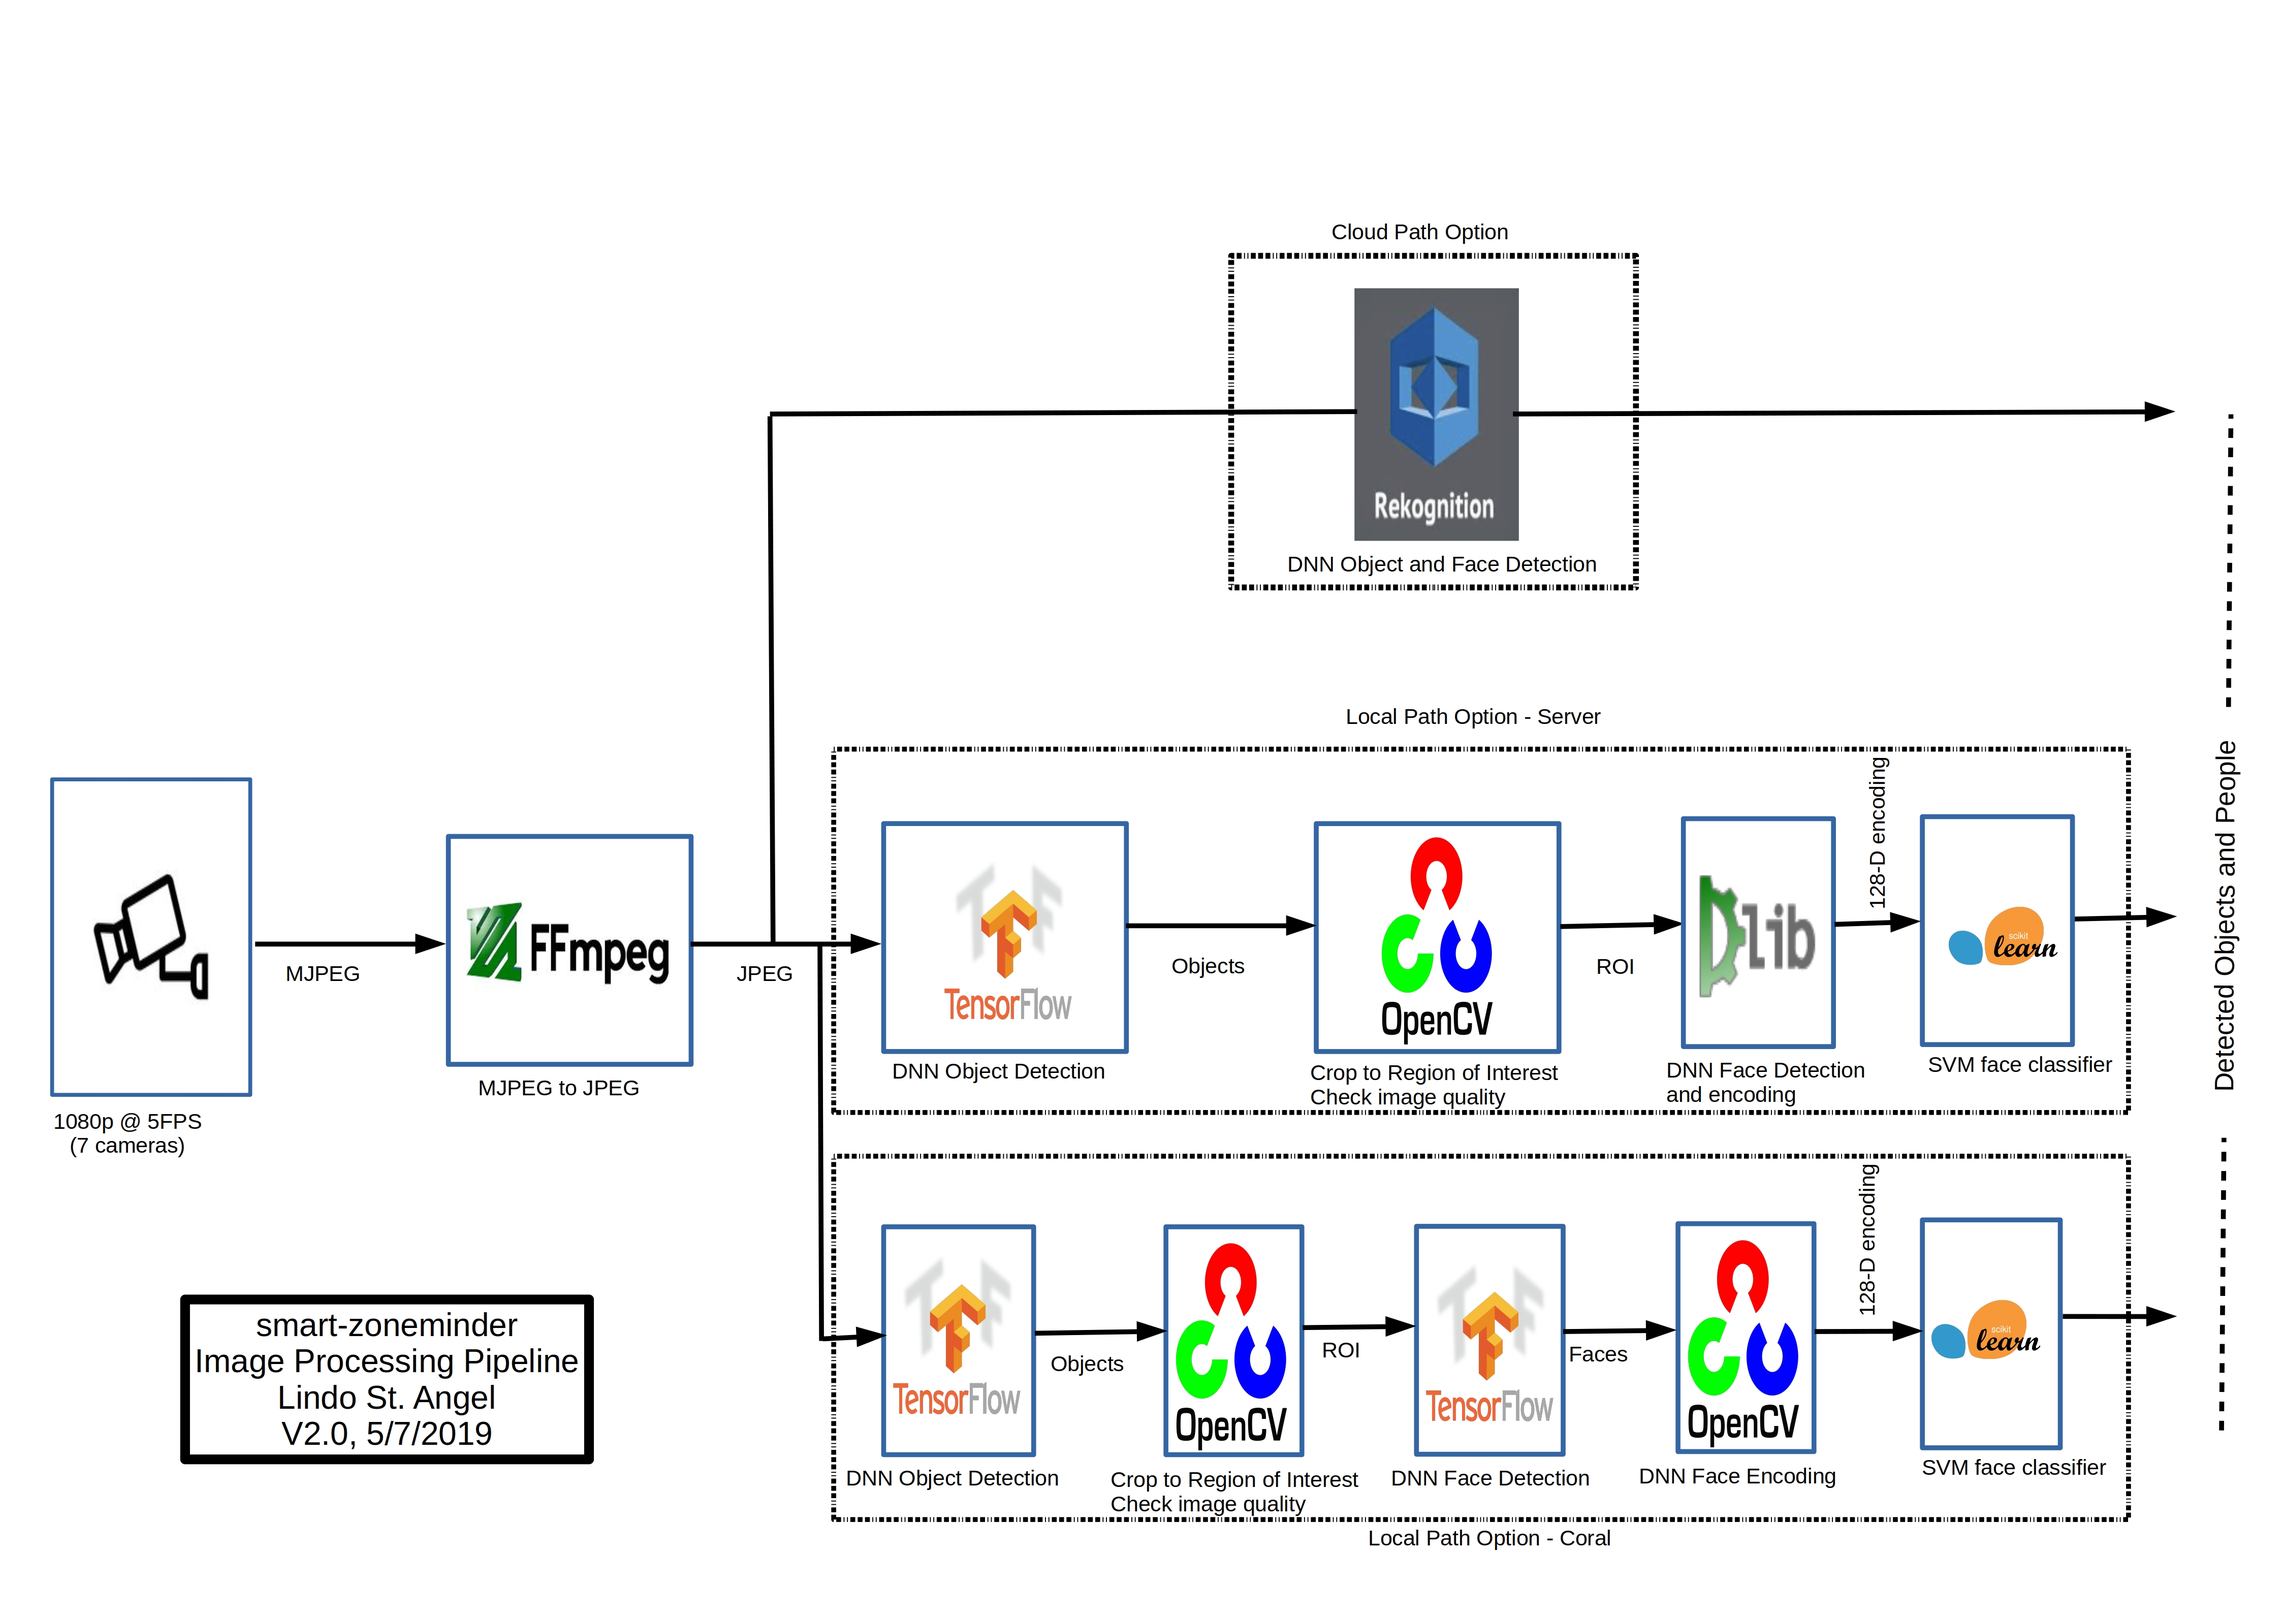
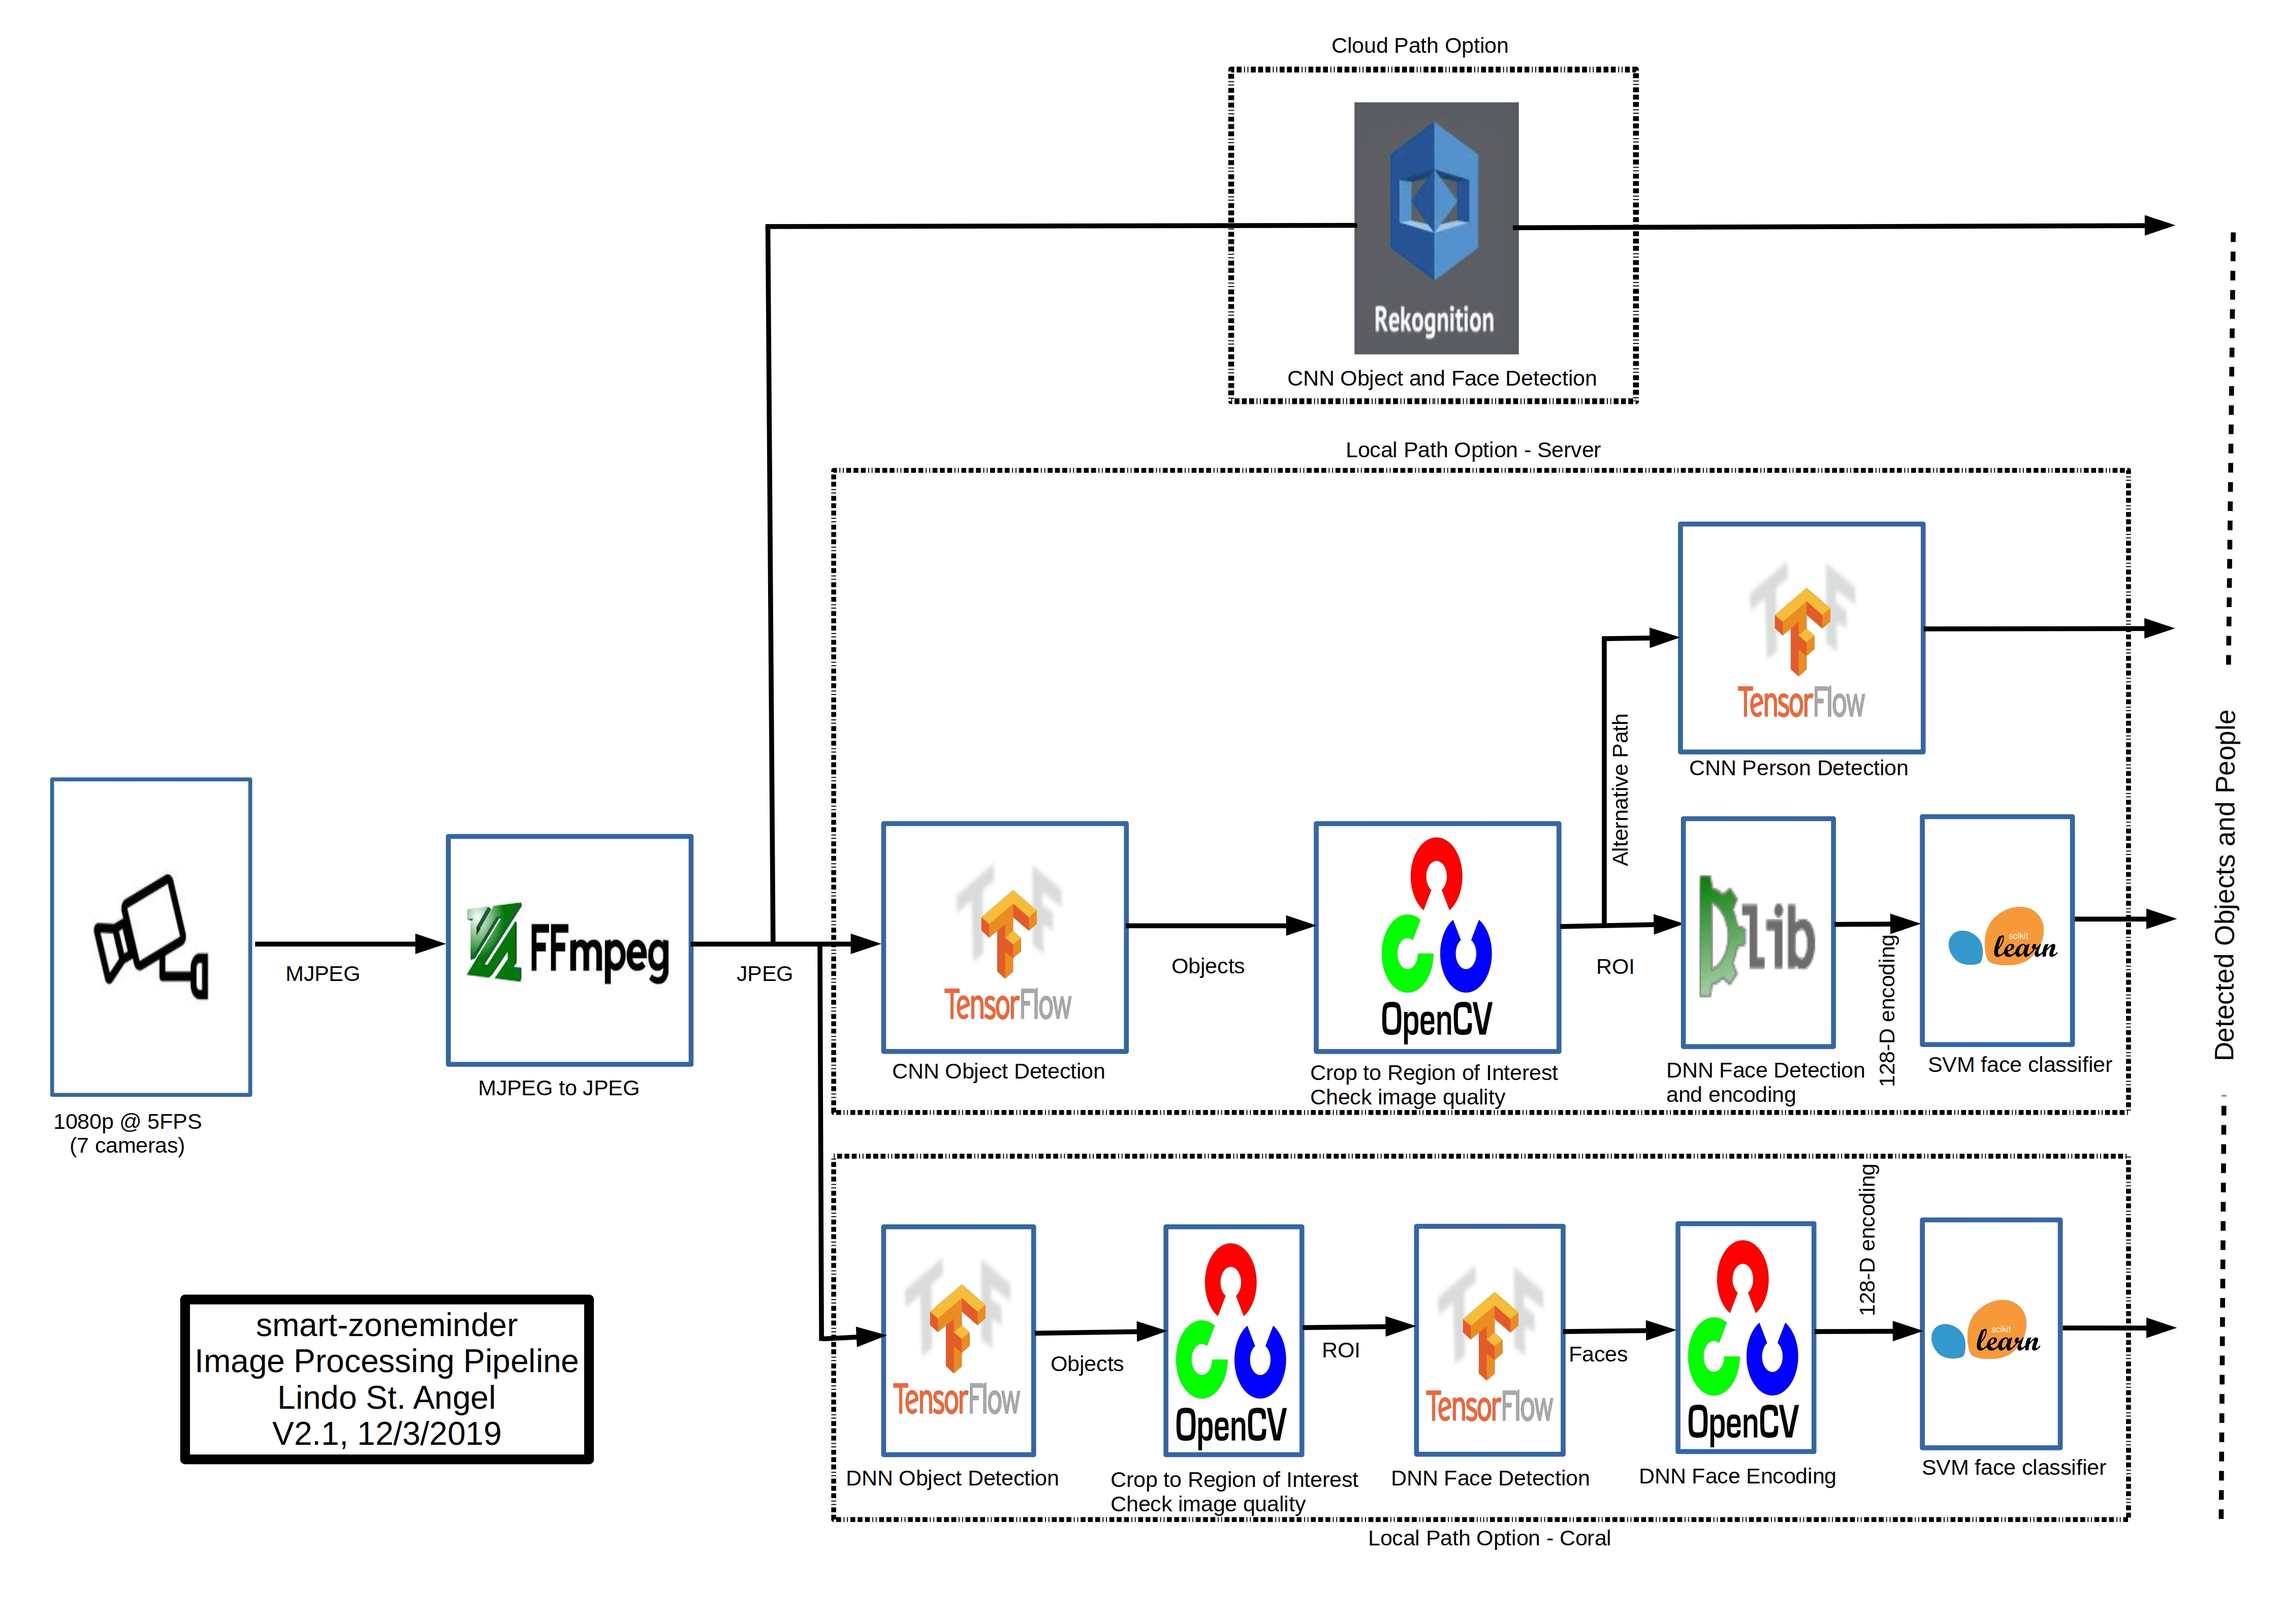
updated READMEs and figures

diff --git a/person-class/README.md b/person-class/README.md
@@ -8,21 +8,23 @@ Note that [face-det-rec](../face-det-rec) includes shallow learning methods (SVM
 # Installation
 1. Clone this git repo to your local machine running ZoneMinder and cd to it.
 
-2. Create a python virtual environment called 'od' and install all required packages using the requirements.txt file in this directory. If you have already created 'od' as part of installing [obj-detect](../obj-detect) you can skip this step. 
+2. If needed install the OpenCV libraries using this [guide](https://www.pyimagesearch.com/2018/06/18/face-recognition-with-opencv-python-and-deep-learning/).
 
-3. Create a folder called ```dataset``` with ```train```, ```test```, and ```valdation``` subfolders.
+3. Create a python virtual environment called 'od' and install all required packages using the requirements.txt file in this directory. If you have already created 'od' as part of installing [obj-detect](../obj-detect) you can skip this step. 
 
-4. In each of the subfolders above, create subfolders for each person of interest. The name of these folders will be the labels for training, validation and test.
+4. Create a folder called ```dataset``` with ```train```, ```test```, and ```valdation``` subfolders.
 
-5. Run [move_files.py](./move_files.py) to copy files from the face-dec-rec dataset to the subfolders above. The program will split the dataset into training/validation/test sets (current default is 90/10/0).
+5. In each of the subfolders above, create subfolders for each person of interest. The name of these folders will be the labels for training, validation and test.
 
-6. Run [train.py](./train.py) to fine-tune a CNN (ResNetInceptionV2 and VGG16 are currently supported) from the images contained in ```dataset```. This program can also generate an inference-optimized TensorFlow model. Run ```$python3 ./train.py -h``` for command line options. 
+6. Run [move_files.py](./move_files.py) to copy files from the face-dec-rec dataset to the subfolders above. The program will split the dataset into training/validation/test sets (current default is 80%/20%/0%).
 
-7. Modify [config.json](./config.json) to suit your installation.
+7. Run [train.py](./train.py) to fine-tune a CNN (ResNetInceptionV2 and VGG16 are currently supported) from the images contained in ```dataset```. This program can also generate an inference-optimized TensorFlow model. Run ```$python3 ./train.py -h``` for command line options. 
 
-8. Create the file ```/tmp/face_det_zmq.pipe``` for an IPC socket that the zerorpc client and server will communicate over. This assumes that the person classification server and ZoneMinder are running on the same machine. If not, then use a TCP socket. If you have already created this as part of the [face-det-rec](../face-det-rec) installation you can skip this step. 
+8. Modify [config.json](./config.json) to suit your installation.
 
-9. Use systemd to run the Person Classification Server as a Linux service. Edit [person-class.service](./person-class.service) to suit your configuration and copy the file to /etc/systemd/system. Then enable and start the service but first disable the face-detect.service (since only one of the two can run at the same time):
+9. Create the file ```/tmp/face_det_zmq.pipe``` for an IPC socket that the zerorpc client and server will communicate over. This assumes that the person classification server and ZoneMinder are running on the same machine. If not, then use a TCP socket. If you have already created this as part of the [face-det-rec](../face-det-rec) installation you can skip this step. 
+
+10. Use systemd to run the Person Classification Server as a Linux service. Edit [person-class.service](./person-class.service) to suit your configuration and copy the file to /etc/systemd/system. Then enable and start the service but first disable the face-detect.service (since only one of the two can run at the same time):
 ```bash
 $ sudo systemctl stop face-detect.service && sudo systemctl disable face-detect.service
 $ sudo systemctl enable person-class.service && sudo systemctl start person-class.service

diff --git a/README.md b/README.md
@@ -1,5 +1,5 @@
 # smart-zoneminder
-smart-zoneminder enables fast object detection, face recognition and upload of [ZoneMinder](https://www.zoneminder.com/) alarm images to an S3 archive where they are made accessible by voice via Alexa. The use of object detection remotely via [Rekognition](https://aws.amazon.com/rekognition) or locally via [TensorFlow](https://www.tensorflow.org/) dramatically reduces the number of false alarms and provides for robust scene and object detection. Face recognition via [ageitgey's](https://github.com/ageitgey/face_recognition) Python API to [dlib](http://dlib.net/) is used to identify people detected in the alarm images. Alexa allows a user to ask to see an image or a video corresponding to an alarm and to get information on what caused the alarm and when it occurred.
+smart-zoneminder enables fast object detection, face recognition and upload of [ZoneMinder](https://www.zoneminder.com/) alarm images to an S3 archive where they are made accessible by voice via Alexa. The use of object detection remotely via [Rekognition](https://aws.amazon.com/rekognition) or locally via a [TensorFlow](https://www.tensorflow.org/)-based CNN dramatically reduces the number of false alarms and provides for robust scene and object detection. Face recognition via [ageitgey's](https://github.com/ageitgey/face_recognition) Python API to [dlib](http://dlib.net/) can be used to identify people detected in the alarm images, alternatively people can be recognized by another TensorFlow-based CNN. Alexa allows a user to ask to see an image or a video corresponding to an alarm and to get information on what caused the alarm and when it occurred.
 
 smart-zoneminder in its default configuration stores about three weeks of continuous video at the edge and one year of alarm images in the cloud. It costs as little as $8 per year per camera to operate.
 
